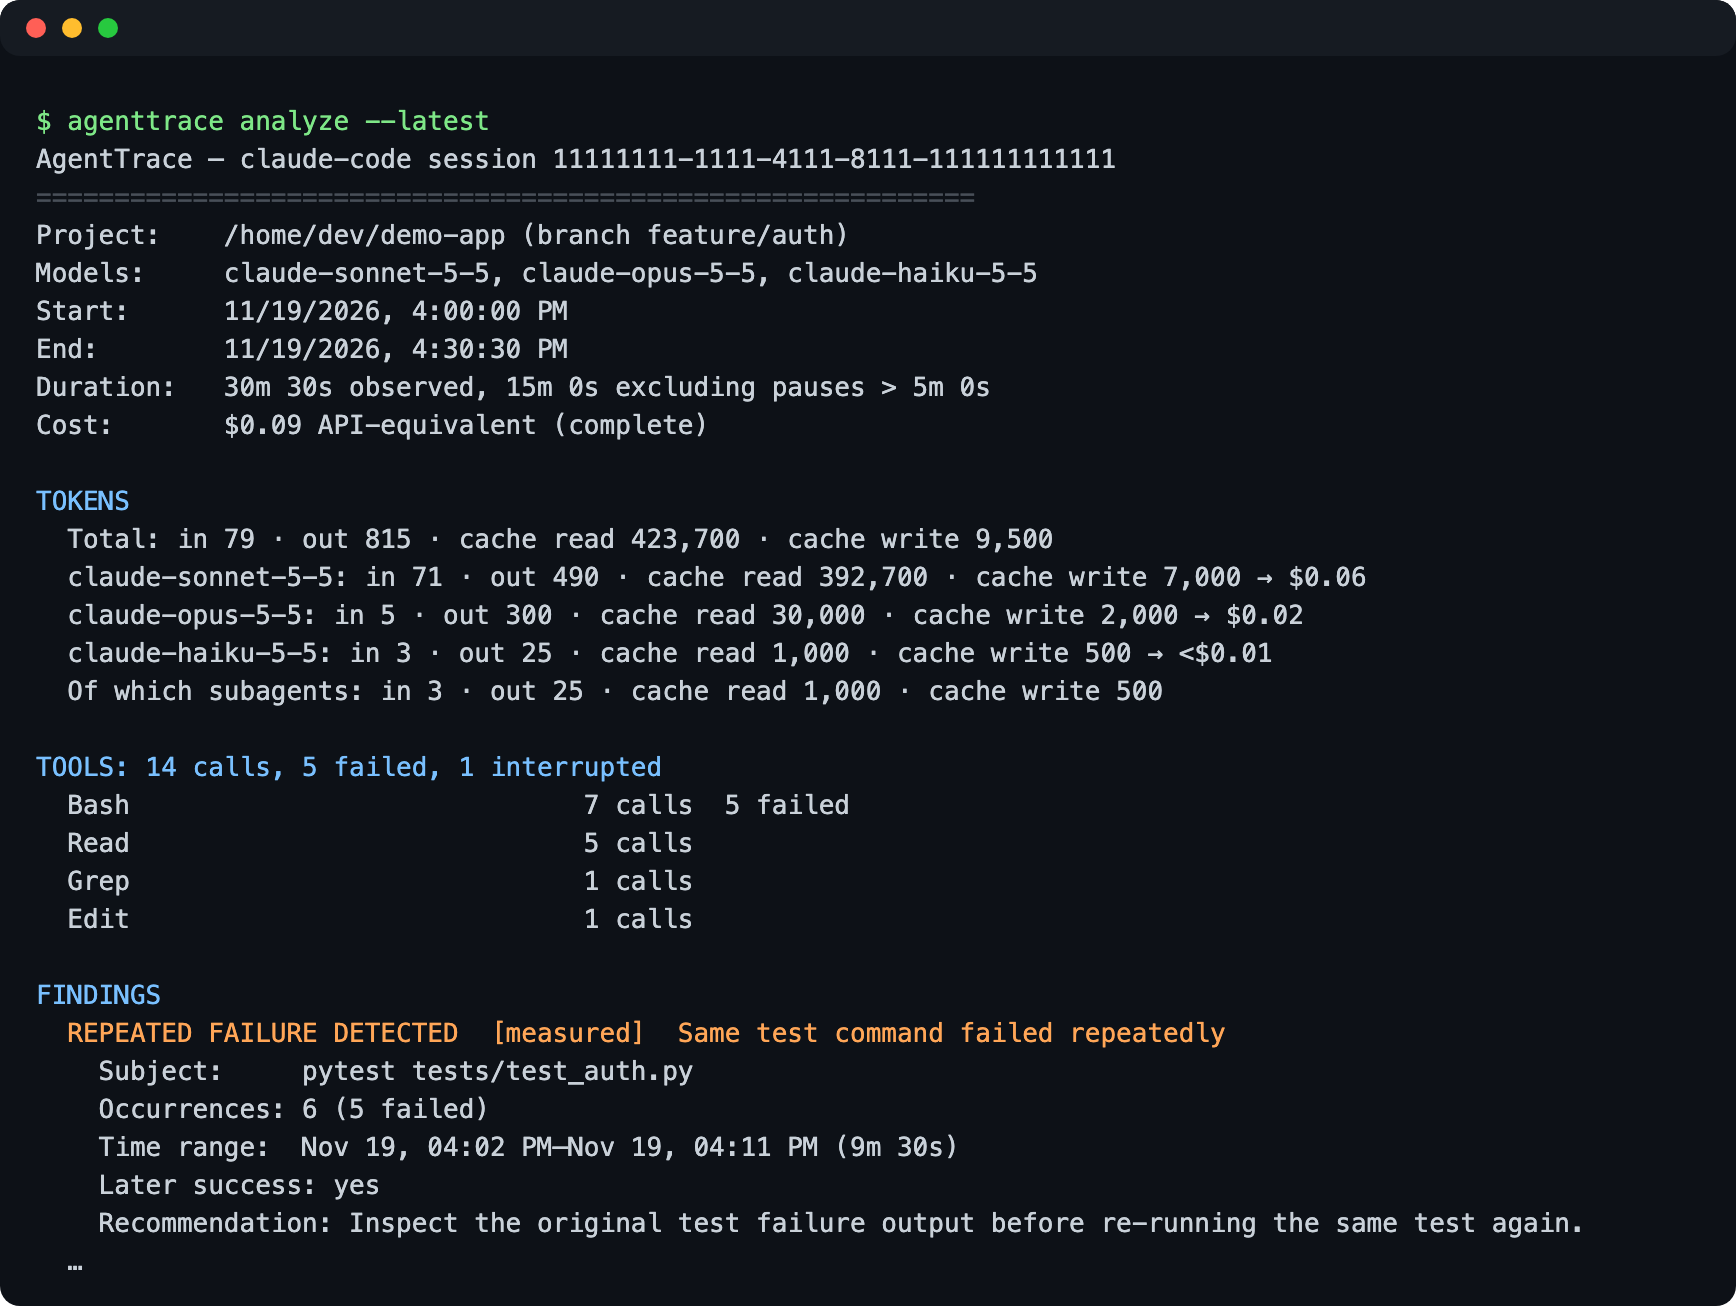
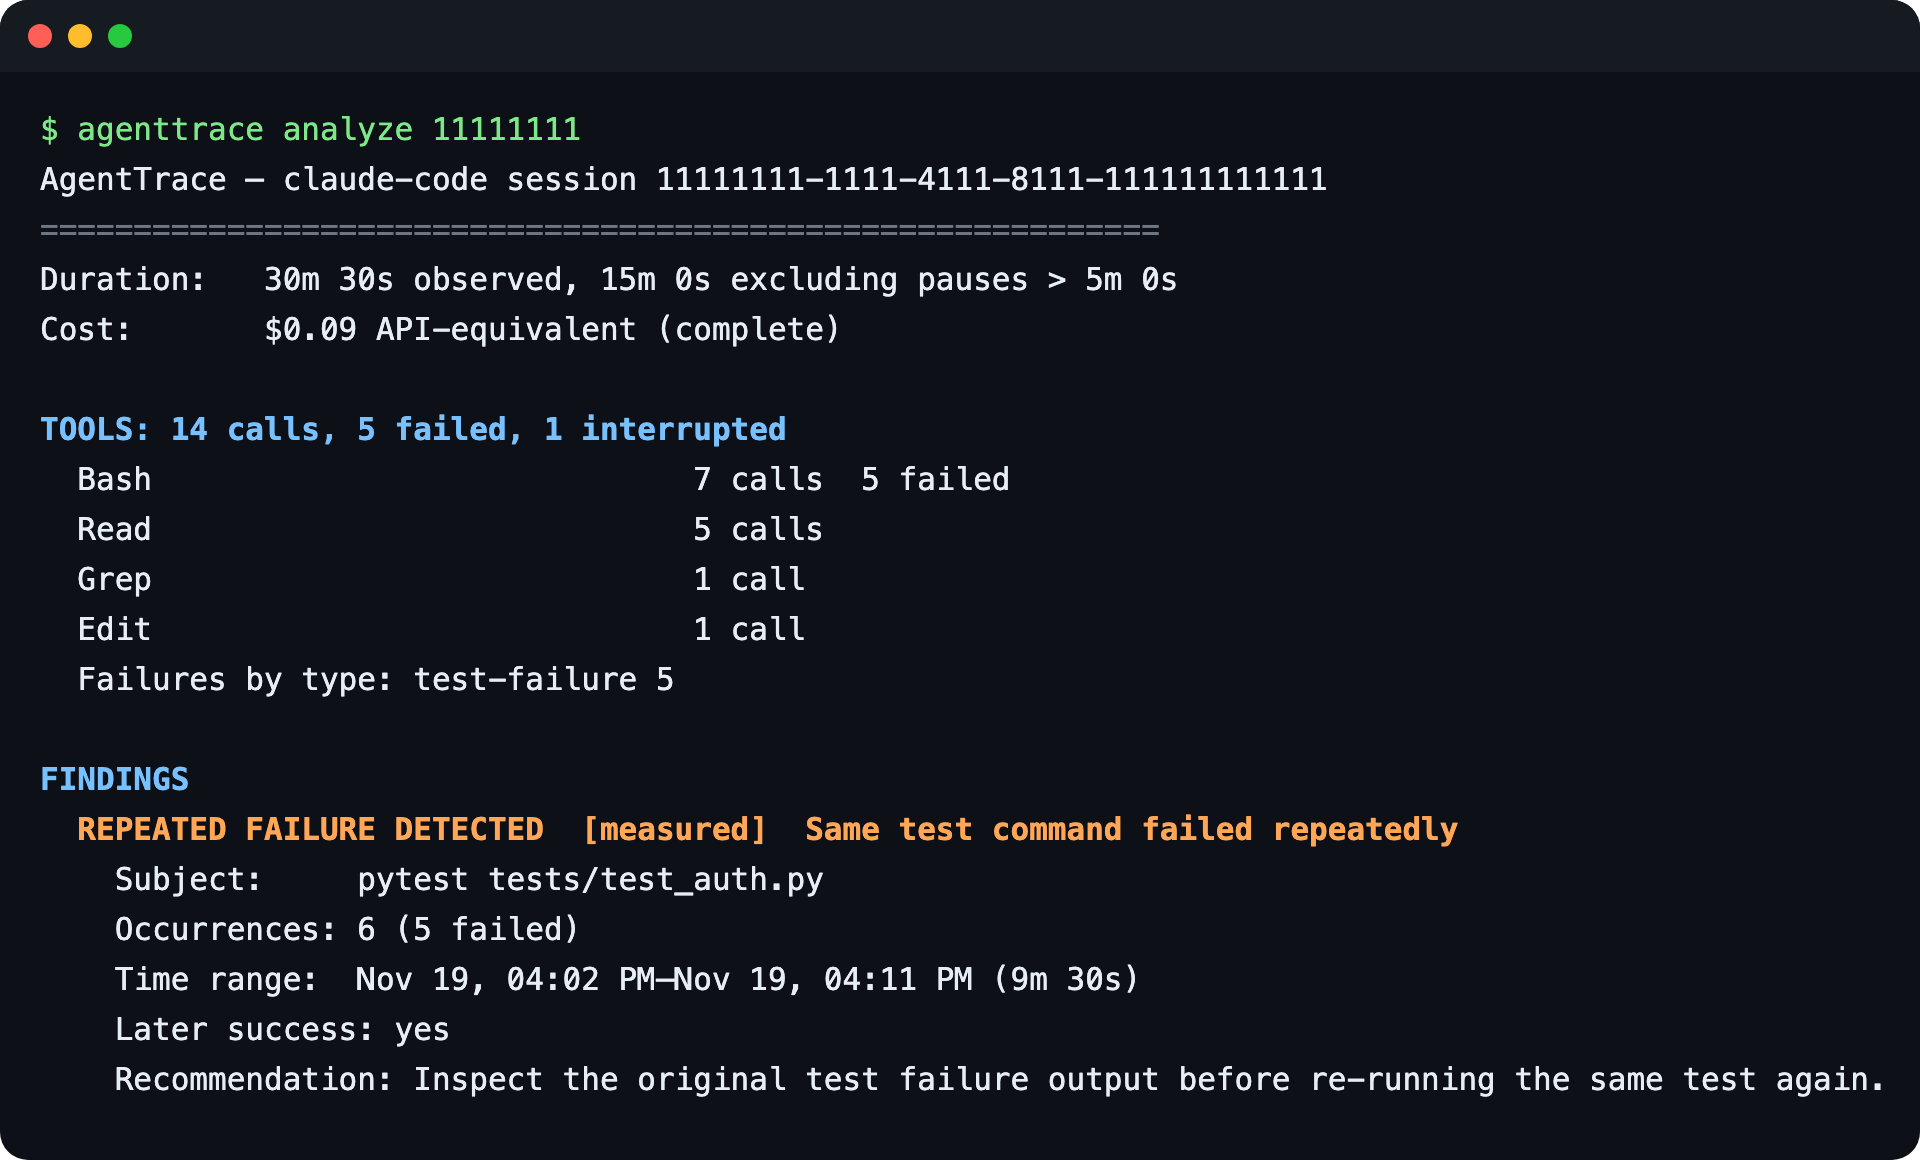
latest version to publish

diff --git a/src/reports/html.ts b/src/reports/html.ts
@@ -124,6 +124,8 @@ export function renderSessionHtml(a: SessionAnalysis, opts: { generatedAt?: Date
   const maxCat = Math.max(1, ...cats.map(([, v]) => v));
   const catBars = cats.map(([k, v]) => bar(k, v, maxCat, formatDuration(v))).join('');
   const toolTimeRows = a.timing.toolTimes.slice(0, 15).map(t => `<tr><td>${esc(t.tool)}</td><td class="num">${t.calls}</td><td class="num">${t.measuredCalls ? esc(formatDuration(t.measuredMs)) + ` <span class="muted">(${t.measuredCalls})</span>` : '—'}</td><td class="num">${t.logIntervalCalls ? esc(formatDuration(t.logIntervalMs)) + ` <span class="muted">(${t.logIntervalCalls})</span>` : '—'}</td></tr>`).join('');
+  const maxType = Math.max(0, ...a.tools.failuresByType.map(x => x.count));
+  const typeBars = a.tools.failuresByType.map(t => bar(t.type, t.count, maxType, `${t.count} failed`, 'err')).join('');
   const failedRows = a.failedCalls.slice(0, 50).map(e => `<tr><td>${esc(tm(e.timestamp))}</td><td>${esc(e.tool)}</td><td class="code">${esc(e.input)}</td><td>${e.exitCode !== undefined ? esc(e.exitCode) : '—'}</td><td>${esc(e.errorClass ?? '')}${e.errorSnippet ? `<div class="snip">${esc(e.errorSnippet)}</div>` : ''}</td></tr>`).join('');
   const failures = a.findings.filter(f => f.kind !== 'repeated-read');
   const reads = a.findings.filter(f => f.kind === 'repeated-read');
@@ -175,6 +177,7 @@ ${a.tokens.total.reasoning ? `<p class="note">Reasoning/thinking tokens (already
 <section><h2>Failure analysis</h2>
 ${failures.length ? failures.map(findingCard).join('') : `<p class="muted">No repeated failures met the threshold (${a.config.threshold}).</p>`}
 ${failBars ? `<h3>Failed calls by tool</h3>${failBars}` : ''}
+${typeBars ? `<h3>Failed calls by type</h3>${typeBars}` : ''}
 ${failedRows ? `<details><summary>All failed tool calls (${a.failedCalls.length})</summary><div class="tablewrap"><table><thead><tr><th>Time</th><th>Tool</th><th>Input (redacted)</th><th>Exit</th><th>Error class</th></tr></thead><tbody>${failedRows}</tbody></table></div></details>` : ''}
 </section>
 

diff --git a/src/analytics/analyze.ts b/src/analytics/analyze.ts
@@ -34,7 +34,7 @@ export interface SessionAnalysis {
   tokens: TokenSummary;
   cost: CostSummary;
   timing: TimingSummary;
-  tools: { total: number; failed: number; interrupted: number; byTool: ToolStats[] };
+  tools: { total: number; failed: number; interrupted: number; byTool: ToolStats[]; failuresByType: { type: string; count: number }[] };
   failedCalls: EvidenceItem[];
   findings: Finding[];
   loops: Finding[];
@@ -123,6 +123,9 @@ export function analyzeSession(s: NormalizedSession, pricing: PricingTable, cfg:
   }
   const byTool = [...byToolMap.values()].sort((a, b) => b.calls - a.calls);
   const failed = s.toolCalls.filter(c => c.status === 'error');
+  const typeMap = new Map<string, number>();
+  for (const c of failed) typeMap.set(c.errorClass ?? 'other', (typeMap.get(c.errorClass ?? 'other') ?? 0) + 1);
+  const failuresByType = [...typeMap].map(([type, count]) => ({ type, count })).sort((a, b) => b.count - a.count || a.type.localeCompare(b.type));
 
   const intervals: [number, number][] = [...findings, ...loops]
     .filter(f => f.kind !== 'repeated-read' && f.kind !== 'similar-errors')
@@ -141,7 +144,7 @@ export function analyzeSession(s: NormalizedSession, pricing: PricingTable, cfg:
   const base: Omit<SessionAnalysis, 'diagnosis'> = {
     agent: s.agent, sessionId: s.sessionId, projectDir: s.projectDir, gitBranch: s.gitBranch, cliVersion: s.cliVersion,
     models: s.models, files: s.files, tokens, cost, timing,
-    tools: { total: s.toolCalls.length, failed: failed.length, interrupted: s.toolCalls.filter(c => c.status === 'interrupted').length, byTool },
+    tools: { total: s.toolCalls.length, failed: failed.length, interrupted: s.toolCalls.filter(c => c.status === 'interrupted').length, byTool, failuresByType },
     failedCalls: failed.slice(0, 200).map(c => evidenceOf(c, config)),
     findings, loops, waste,
     counts: {

diff --git a/tests/analytics/analytics.test.ts b/tests/analytics/analytics.test.ts
@@ -408,3 +408,17 @@ describe('cross-session de-duplication', () => {
     expect(res.usage.every(r => typeof r.messageId === 'string' && r.messageId.startsWith('msg_'))).toBe(true);
   });
 });
+
+describe('failures by type', () => {
+  const call = (i: number, cls?: string): ToolCall => ({
+    id: 'f' + i, name: 'Bash', timestamp: new Date(Date.UTC(2026, 0, 1, 0, i)), status: 'error', errorClass: cls,
+    errorSignature: 's' + i, inputKey: 'k' + i, inputSummary: 'x', command: 'x',
+  });
+  it('counts failed calls by errorClass, sorted, and sums to failed', () => {
+    const calls = [call(1, 'test-failure'), call(2, 'not-found'), call(3, 'test-failure'), call(4), call(5, 'not-found'), call(6, 'test-failure')];
+    const s: NormalizedSession = { agent: 'claude-code', sessionId: 's', files: [], models: [], usage: [], usageAvailable: false, toolCalls: calls, boundaries: [], eventTimes: [], apiErrors: 0, interruptions: 0, diagnostics: [] };
+    const a = analyzeSession(s, loadPricing());
+    expect(a.tools.failuresByType).toEqual([{ type: 'test-failure', count: 3 }, { type: 'not-found', count: 2 }, { type: 'other', count: 1 }]);
+    expect(a.tools.failuresByType.reduce((n, f) => n + f.count, 0)).toBe(a.tools.failed);
+  });
+});

diff --git a/src/reports/text.ts b/src/reports/text.ts
@@ -56,7 +56,8 @@ export function renderSessionText(a: SessionAnalysis): string {
   }
   L.push('');
   L.push(`TOOLS: ${a.tools.total} calls, ${a.tools.failed} failed, ${a.tools.interrupted} interrupted`);
-  for (const t of a.tools.byTool.slice(0, 12)) L.push(`  ${t.tool.padEnd(28)} ${String(t.calls).padStart(5)} calls  ${t.errors ? t.errors + ' failed' : ''}`);
+  for (const t of a.tools.byTool.slice(0, 12)) L.push(`  ${t.tool.padEnd(28)} ${String(t.calls).padStart(5)} ${t.calls === 1 ? 'call ' : 'calls'}  ${t.errors ? t.errors + ' failed' : ''}`);
+  if (a.tools.failuresByType.length) L.push(`  Failures by type: ${a.tools.failuresByType.map(f => `${f.type} ${f.count}`).join(' · ')}`);
   L.push('');
   L.push('FINDINGS');
   if (!a.findings.length && !a.loops.length) L.push(`  None met the threshold (${a.config.threshold}).`);

diff --git a/src/mcp/sanitize.ts b/src/mcp/sanitize.ts
@@ -178,6 +178,7 @@ export function analysisOut(a: SessionAnalysis) {
     cost: costOut(a.cost),
     tools: {
       total: a.tools.total, failed: a.tools.failed, interrupted: a.tools.interrupted,
+      failuresByType: a.tools.failuresByType.slice(0, LIMITS.groups),
       byTool: a.tools.byTool.slice(0, LIMITS.groups).map(t => ({ tool: t.tool, calls: t.calls, errors: t.errors, interrupted: t.interrupted })),
     },
     counts: a.counts,

diff --git a/src/version.ts b/src/version.ts
@@ -1,5 +1,5 @@
 /** Package version. Kept in sync with package.json (checked by a test). */
-export const VERSION = '0.3.1';
+export const VERSION = '0.3.2';
 
 /**
  * Bump whenever a parser or analysis change can alter results for unchanged log files.

diff --git a/PRIVACY.md b/PRIVACY.md
@@ -1,0 +1,17 @@
+# AgentTrace privacy policy
+
+AgentTrace runs entirely on your computer. The author does not receive any of your data.
+
+**What it reads.** Your local Claude Code and Codex session logs, opened read-only. It never writes to `~/.claude`, `~/.codex`, your repositories or agent configuration.
+
+**What it sends.** Nothing. There is no network access, no telemetry, no analytics, no accounts, and no calls to AI or cloud services. No credentials are needed.
+
+**What it outputs.** Metadata, counts, token totals, estimated cost, tool names, timings, and redacted shell commands and file paths. Prompts, assistant text, file contents and tool output are not included. Optional error snippets (`--show-errors`) are the first line of error output, after secret redaction.
+
+**MCP server and plugin.** The MCP server returns summaries and evidence only, and its output becomes part of your conversation with the assistant. Command text is off by default.
+
+**What it stores.** A summary cache in your user cache folder holding per-session counts, token totals, timing, model names, project folder, and each log file's size and modification time. It holds no prompts, commands or tool output. Permissions are `0600`. Disable it with `--no-cache` or delete it with `agenttrace cache clear`. Reports are written only where you choose, with `0600` permissions.
+
+**Third parties.** None. The npm package is installed from the public npm registry by your own package manager; AgentTrace itself makes no requests.
+
+**Changes and contact.** Changes to this policy appear in this file in the repository. Questions or concerns: open an issue at https://github.com/Vukkisa/agenttrace/issues.

diff --git a/plugins/agenttrace/skills/agenttrace/SKILL.md b/plugins/agenttrace/skills/agenttrace/SKILL.md
@@ -51,7 +51,7 @@ Use these sections in this order, short and in plain language. Skip a section th
 1. **Session highlight**: the single most important fact, in one sentence.
 2. **Usage**: model, input, output and cache tokens, and the estimated API-equivalent cost.
 3. **Time**: observed duration (Measured), estimated active time (Estimated), and how many long pauses (Estimated, because it depends on the pause threshold).
-4. **Agent activity**: tool calls, failed calls, and the most-used tools.
+4. **Agent activity**: tool calls, failed calls, the most-used tools, and failures by type (`failuresByType`) when present, as counts only.
 5. **Problems**: repeated failures and possible loops, each with its evidence.
 6. **What this means**: two or three sentences of practical explanation.
 7. **Suggested next step**: only if the tools returned findings. Point to a factual follow-up such as `/agenttrace failures <id>`, using the analysed session's id. Do not give advice on how to fix anything. Do not suggest `CLAUDE.md` rules or prompt changes.

diff --git a/README.md b/README.md
@@ -18,7 +18,7 @@ Everything runs offline. Nothing is uploaded, no LLM is used, no API key is need
 
 ![Example terminal output (synthetic data)](docs/demo-terminal.png)
 
-*Terminal output for the same synthetic session: tokens and cost per model, tool failures, and a repeated-failure finding with its evidence.*
+*Terminal output for the same synthetic session: duration, estimated cost, failures by type, and a repeated-failure finding.*
 
 ## Features
 
@@ -251,6 +251,8 @@ agenttrace analyze --latest --pricing my-prices.json
 `~/.agenttrace/pricing.json` is also read automatically if it exists (AgentTrace never creates it).
 
 ## Privacy
+
+Full policy: [PRIVACY.md](PRIVACY.md).
 
 - Logs are opened **read-only**. AgentTrace never writes to `~/.claude`, `~/.codex`, repositories or agent configuration.
 - No network access, no telemetry, no LLM calls, no credentials required.

diff --git a/plugins/agenttrace/README.md b/plugins/agenttrace/README.md
@@ -30,7 +30,7 @@ A plugin skill is namespaced, so the command is:
 
 Want the short `/agenttrace` instead? Install the standalone skill (see the main README), which gives the exact name without a namespace.
 
-The plugin starts the MCP server `agenttrace`, pinned to `@vukkisa/agenttrace@0.3.1`. Its tools appear as `mcp__plugin_agenttrace_agenttrace__*`. Bump the pin in `.mcp.json` when a new AgentTrace version is released.
+The plugin starts the MCP server `agenttrace`, pinned to `@vukkisa/agenttrace@0.3.2`. Its tools appear as `mcp__plugin_agenttrace_agenttrace__*`. Bump the pin in `.mcp.json` when a new AgentTrace version is released.
 
 ## Avoid duplicate servers
 
